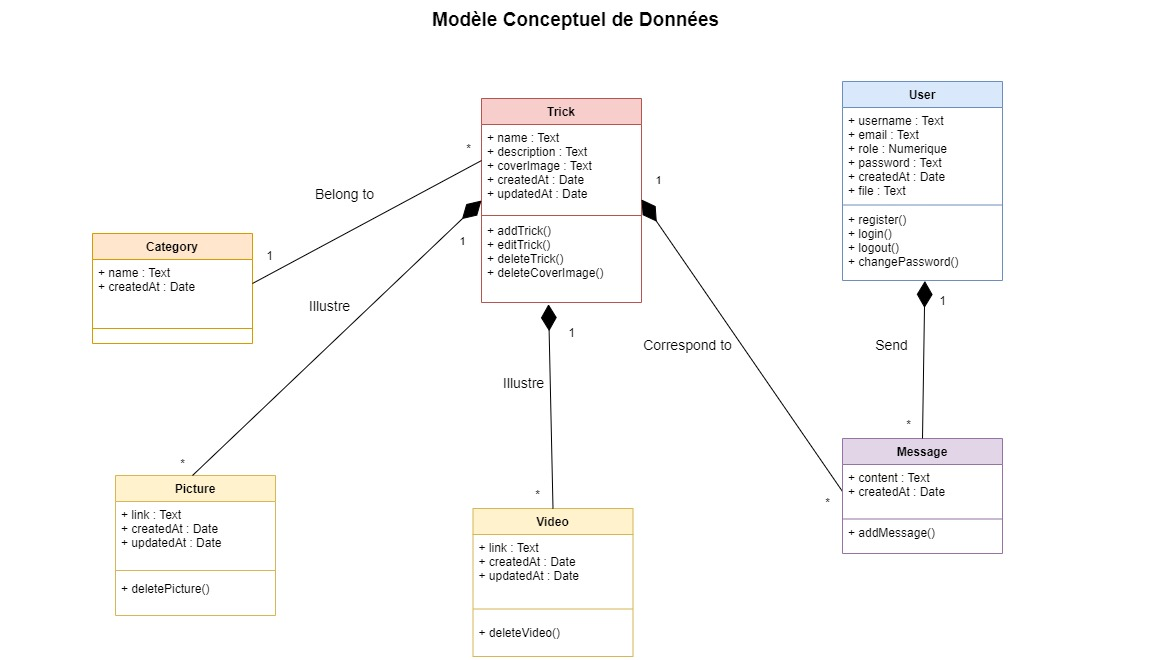
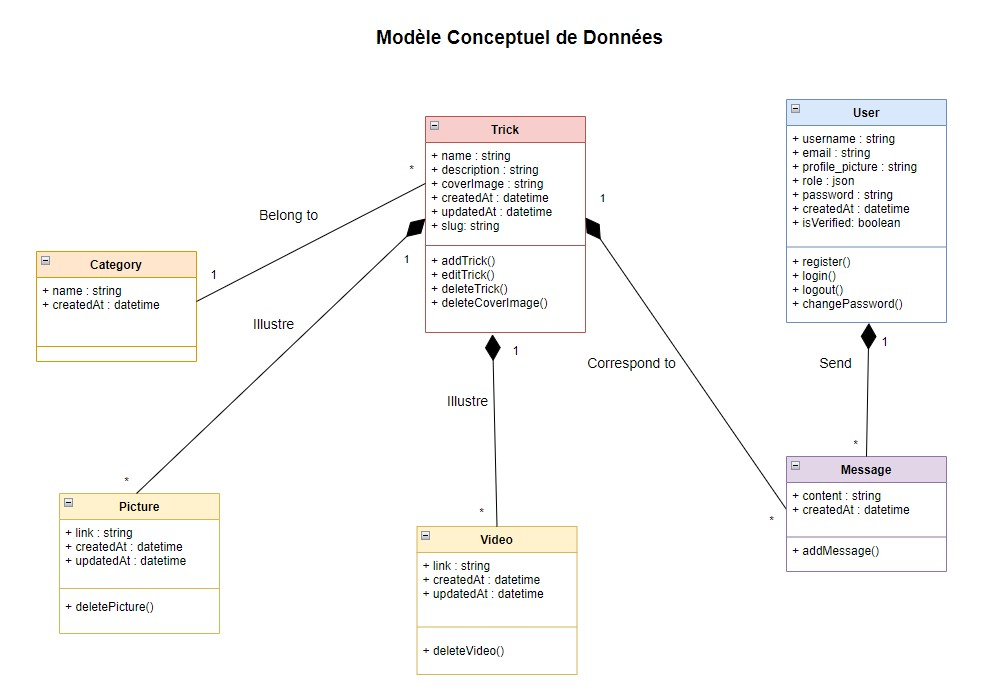
Update slug

diff --git a/src/Controller/TrickController.php b/src/Controller/TrickController.php
@@ -9,7 +9,6 @@ use App\Entity\Video;
 use App\Form\EditTrickType;
 use App\Form\MessageType;
 use App\Form\NameTrickType;
-use App\Form\PictureType;
 use App\Form\TrickType;
 use App\Form\VideoType;
 use App\Repository\MessageRepository;
@@ -29,11 +28,19 @@ class TrickController extends AbstractController
 {
     private $coverImageController;
     private $pictureController;
+    private $videoController;
+    private $videoService;
 
-    public function __construct(CoverImageController $coverImageController, PictureController $pictureController)
-    {
+    public function __construct(
+        CoverImageController $coverImageController,
+        PictureController $pictureController,
+        VideoService $videoService,
+        VideoController $videoController
+    ) {
         $this->coverImageController = $coverImageController;
         $this->pictureController = $pictureController;
+        $this->videoController = $videoController;
+        $this->videoService = $videoService;
     }
 
     #[Route('/trick/new', name: 'trick.new', methods: ['GET', 'POST'])]
@@ -88,7 +95,7 @@ class TrickController extends AbstractController
         $pictures = $pictureRepository->findBy(['trick' => $trick], ['createdAt' => 'DESC']);
         $videos = $videoRepository->findBy(['trick' => $trick], ['createdAt' => 'DESC']);
 
-        // MODIFICATION PICTURE
+        // MODIFICATION COVERIMAGE
         $formCoverImage = $this->coverImageController->editCoverImage($trick, $request, $picture);
 
         $message = new Message();
@@ -107,7 +114,7 @@ class TrickController extends AbstractController
                 ' Message was successfully added !'
             );
 
-            return $this->redirect($this->generateUrl('trick.index', ['slug' => $slug]) . '#card-message');
+            return $this->redirect($this->generateUrl('trick.index', ['slug' => $slug]).'#card-message');
         }
 
         // on va chercher le numéro de la page dans l'url, par défaut c'est la page 1
@@ -151,27 +158,16 @@ class TrickController extends AbstractController
 
             $manager->persist($trickName);
             $manager->flush();
+
+            return $this->redirectToRoute('trick.index', ['slug' => $trick->getSlug()]);
         }
 
         // MODIFICATION COVERIMAGE
         $formCoverImage = $this->coverImageController->editCoverImage($trick, $request, $picture);
 
         // AJOUT PICTURE TRICK
-        $formPicture = $this->createForm(PictureType::class, $picture);
-        $formPicture->handleRequest($request);
-
-        if ($formPicture->isSubmitted() && $formPicture->isValid()) {
-            $picture = $formPicture->get('newPictureLink')->getData();
-
-            $removePicture = $trickRepository->findOneBySlug($slug);
-            if ($removePicture->getCoverImage()) {
-                $filesystem = new Filesystem();
-                $path = 'upload/' . $removePicture->getCoverImage();
-                $filesystem->remove([$path]);
-            }
-
-            $pictureService->newPicture($trick, [$picture]);
-
+        $formPicture = $this->pictureController->addPicture($trick, $picture, $request, $trickRepository, $slug);
+        if (!$formPicture) {
             return $this->redirectToRoute('trick.edit', ['slug' => $slug]);
         }
 
@@ -179,17 +175,8 @@ class TrickController extends AbstractController
         $formEditPicture = $this->pictureController->editPicture($trick, $request, $picture);
 
         // AJOUT VIDEO TRICK
-        $video = new Video();
-        $formVideo = $this->createForm(VideoType::class, $video);
-        $formVideo->handleRequest($request);
-
-        if ($formVideo->isSubmitted() && $formVideo->isValid()) {
-            // Récupération de l'image(s)
-            $video = $formVideo->get('newVideoLink')->getData();
-
-            // Utilisation de VideoService
-            $videoService->newVideo($trick, [$video]);
-
+        $formVideo = $this->addVideo($trick, $request, $slug);
+        if (!$formVideo) {
             return $this->redirectToRoute('trick.edit', ['slug' => $slug]);
         }
 
@@ -211,27 +198,32 @@ class TrickController extends AbstractController
             'videos' => $videos,
             'formEditCoverImage' => $formCoverImage,
             'formNameEdit' => $formNameEdit->createView(),
-            'formPicture' => $formPicture->createView(),
+            'formPicture' => $formPicture,
             'formEditPicture' => $formEditPicture,
-            'formVideo' => $formVideo->createView(),
+            'formVideo' => $formVideo,
             'formEdit' => $formEdit->createView(),
         ]);
     }
 
     #[Route('/trick/delete/{slug}', name: 'trick.delete', methods: ['GET'])]
-    public function deleteTrick(Trick $trick, TrickRepository $trickRepository, Filesystem $filesystem, EntityManagerInterface $manager, $slug): Response
-    {
+    public function deleteTrick(
+        Trick $trick,
+        TrickRepository $trickRepository,
+        Filesystem $filesystem,
+        EntityManagerInterface $manager,
+        $slug
+    ): Response {
         $removePictures = $trickRepository->findOneBySlug($slug);
         // Delete cover image
         if ($removePictures->getCoverImage()) {
             $filesystem = new Filesystem();
-            $path = 'upload/' . $removePictures->getCoverImage();
+            $path = 'upload/'.$removePictures->getCoverImage();
             $filesystem->remove([$path]);
         }
         // Delete all pictures by trick
         foreach ($removePictures->getPictures() as $image) {
             $filesystem = new Filesystem();
-            $path = 'upload/' . $image->getPictureLink();
+            $path = 'upload/'.$image->getPictureLink();
             $filesystem->remove([$path]);
         }
 
@@ -244,5 +236,21 @@ class TrickController extends AbstractController
         );
 
         return $this->redirectToRoute('home.index');
+    }
+
+    private function addVideo($trick, $request)
+    {
+        $video = new Video();
+        $formVideo = $this->createForm(VideoType::class, $video);
+        $formVideo->handleRequest($request);
+
+        if ($formVideo->isSubmitted() && $formVideo->isValid()) {
+            $video = $formVideo->get('newVideoLink')->getData();
+            $this->videoService->newVideo($trick, [$video]);
+
+            return false;
+        }
+
+        return $formVideo->createView();
     }
 }

diff --git a/src/Controller/PictureController.php b/src/Controller/PictureController.php
@@ -5,6 +5,7 @@ namespace App\Controller;
 use App\Entity\Picture;
 use App\Entity\Trick;
 use App\Form\EditPictureType;
+use App\Form\PictureType;
 use App\Repository\TrickRepository;
 use App\Service\PictureService;
 use Doctrine\ORM\EntityManagerInterface;
@@ -21,6 +22,28 @@ class PictureController extends AbstractController
     public function __construct(PictureService $pictureService)
     {
         $this->pictureService = $pictureService;
+    }
+
+    public function addPicture(Trick $trick, Picture $picture, Request $request, TrickRepository $trickRepository, $slug)
+    {
+        $formPicture = $this->createForm(PictureType::class, $picture);
+        $formPicture->handleRequest($request);
+
+        if ($formPicture->isSubmitted() && $formPicture->isValid()) {
+            $picture = $formPicture->get('newPictureLink')->getData();
+
+            $removePicture = $trickRepository->findOneBySlug($slug);
+            if ($removePicture->getCoverImage()) {
+                $filesystem = new Filesystem();
+                $path = 'upload/'.$removePicture->getCoverImage();
+                $filesystem->remove([$path]);
+            }
+            $this->pictureService->newPicture($trick, [$picture]);
+
+            return false;
+        }
+
+        return $formPicture->createView();
     }
 
     public function editPicture(Trick $trick, Request $request, Picture $picture)
@@ -46,7 +69,6 @@ class PictureController extends AbstractController
             $trick->setCoverImage(null);
             $trickRepository->add($trick, true);
         }
-
         $manager->remove($picture);
         $manager->flush();
 

diff --git a/src/Controller/VideoController.php b/src/Controller/VideoController.php
@@ -2,14 +2,40 @@
 
 namespace App\Controller;
 
+use App\Entity\Trick;
 use App\Entity\Video;
+use App\Form\VideoType;
+use App\Service\VideoService;
 use Doctrine\ORM\EntityManagerInterface;
 use Symfony\Bundle\FrameworkBundle\Controller\AbstractController;
+use Symfony\Component\HttpFoundation\Request;
 use Symfony\Component\HttpFoundation\Response;
 use Symfony\Component\Routing\Annotation\Route;
 
 class VideoController extends AbstractController
 {
+    /*private $videoService;
+
+    public function __construct(VideoService $videoService)
+    {
+        $this->videoService = $videoService;
+    }
+
+    public function addVideo(Trick $trick, Request $request, $slug)
+    {
+        $video = new Video();
+        $formVideo = $this->createForm(VideoType::class, $video);
+        $formVideo->handleRequest($request);
+
+        if ($formVideo->isSubmitted() && $formVideo->isValid()) {
+            $video = $formVideo->get('newVideoLink')->getData();
+            $this->videoService->newVideo($trick, [$video]);
+
+            return $this->redirectToRoute('trick.edit', ['slug' => $slug]);
+        }
+        return $formVideo->createView();
+    }*/
+
     #[Route('/video/delete/{slug}/{id}', name: 'video.delete', methods: ['GET'])]
     public function deleteVideo($slug, Video $video, EntityManagerInterface $manager): Response
     {

diff --git a/src/Form/VideoType.php b/src/Form/VideoType.php
@@ -18,17 +18,22 @@ class VideoType extends AbstractType
             'required' => false,
             'attr' => [
                 'class' => 'form-control',
+                'placeholder' => 'https://www.youtube.com/watch?v=_hxLS2ErMiY&t=4s',
             ],
-            'label' => 'New video',
+            'label' => 'New video (YouTube)',
             'label_attr' => [
                 'class' => 'mt-4 mb-2',
             ],
-            'constraints' => [
+        /*    'constraints' => [
                 new Assert\NotBlank([
                     'message' => 'Please upload a file !',
                 ]),
-            ],
-            ]);
+                new Assert\Regex([
+                    'pattern' => '/^htpps?:\/\/(?:www\.)?youtube\.com\/watch\?v=[\w\-]+(?:&t=\d+s?)?$/',
+                    'message' => 'Invalid YouTube video URL format !',
+                    ]),
+            ],*/
+        ]);
     }
 
     public function configureOptions(OptionsResolver $resolver): void

diff --git a/src/Entity/Trick.php b/src/Entity/Trick.php
@@ -66,6 +66,12 @@ class Trick
         $this->slug = (new Slugify())->slugify($this->name);
     }
 
+    #[ORM\PreUpdate]
+    public function updateSlug()
+    {
+        $this->slug = (new Slugify())->slugify(strtolower($this->name));
+    }
+
     public function getId(): ?int
     {
         return $this->id;

diff --git a/src/Entity/Category.php b/src/Entity/Category.php
@@ -19,9 +19,6 @@ class Category
     #[ORM\Column(type: 'string', length: 50)]
     private $name;
 
-    /*#[ORM\Column(type: 'datetime_immutable')]
-    private $createdAt;*/
-
     #[ORM\Column(type: 'datetime')]
     protected $createdAt;
 
